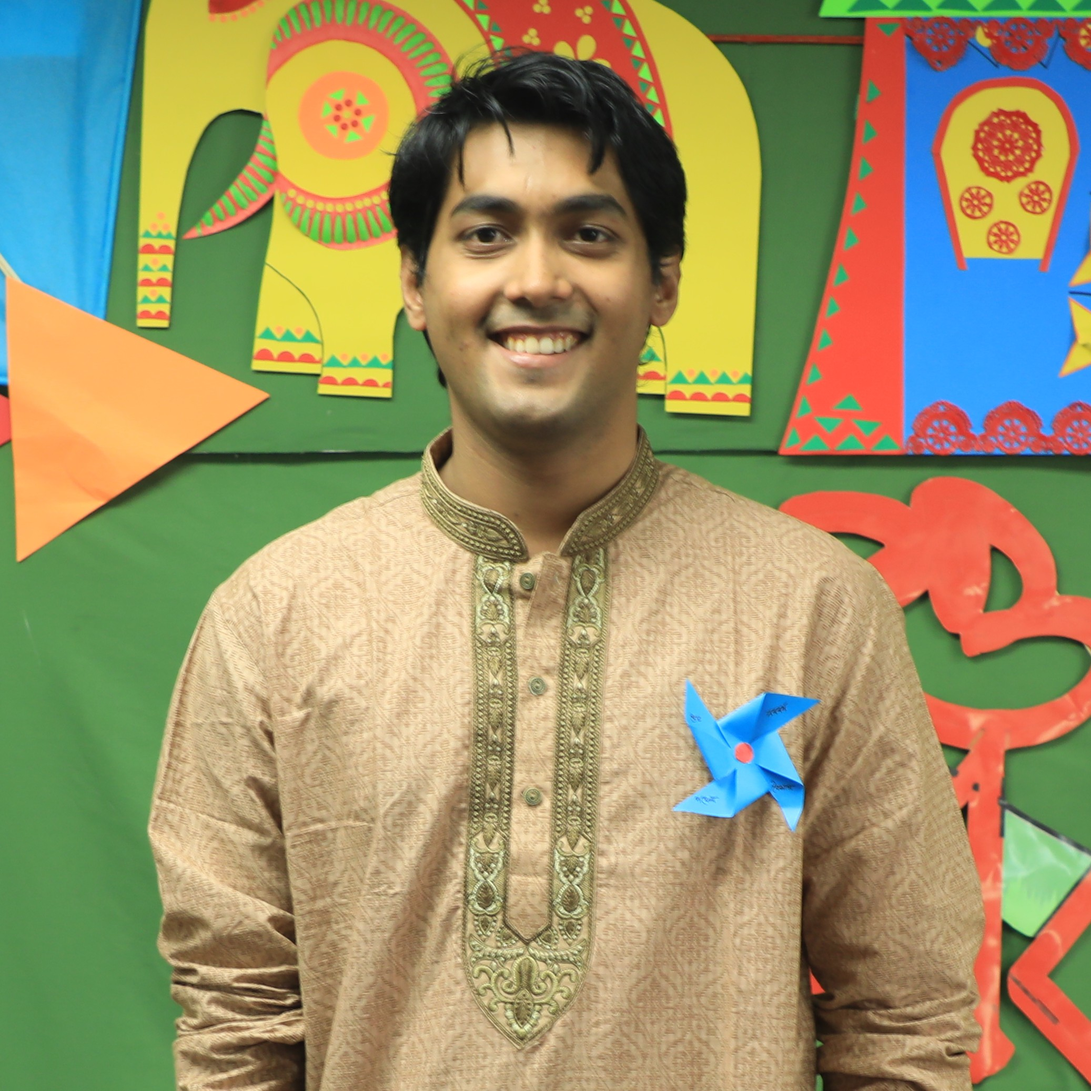
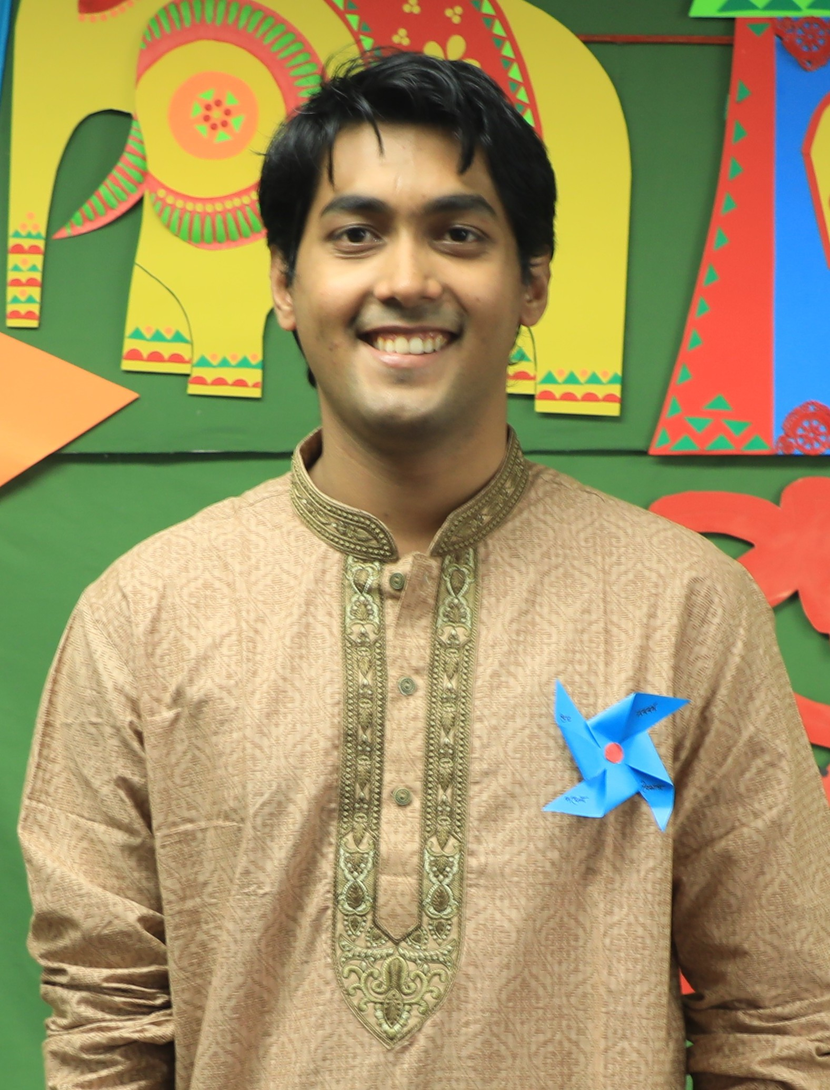
Crop and resize image

diff --git a/index.html b/index.html
@@ -13,7 +13,7 @@
 
   <div class="wrapper">
     <header>
-      <img src="images/Ayon.jpg">
+      <img src="images/Ayon.jpg"  style="width:200px">
       <h1>Ayon Sen</h1>
       <br> PhD Student
       <br> <a href="https://www.cs.wisc.edu/" target="_blank">Computer Sciences Department</a>
